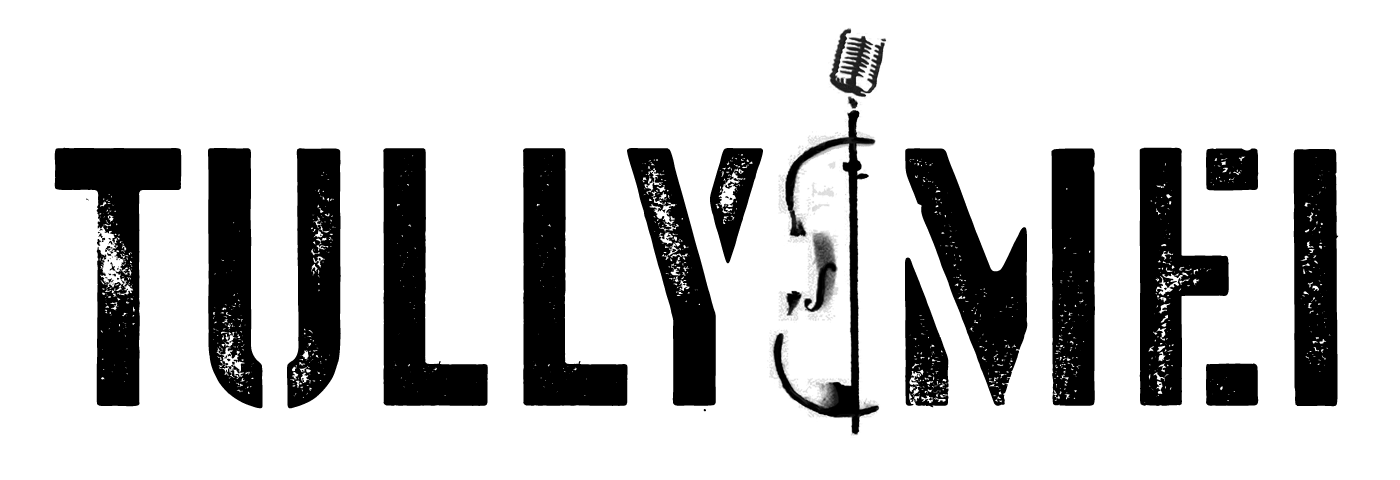
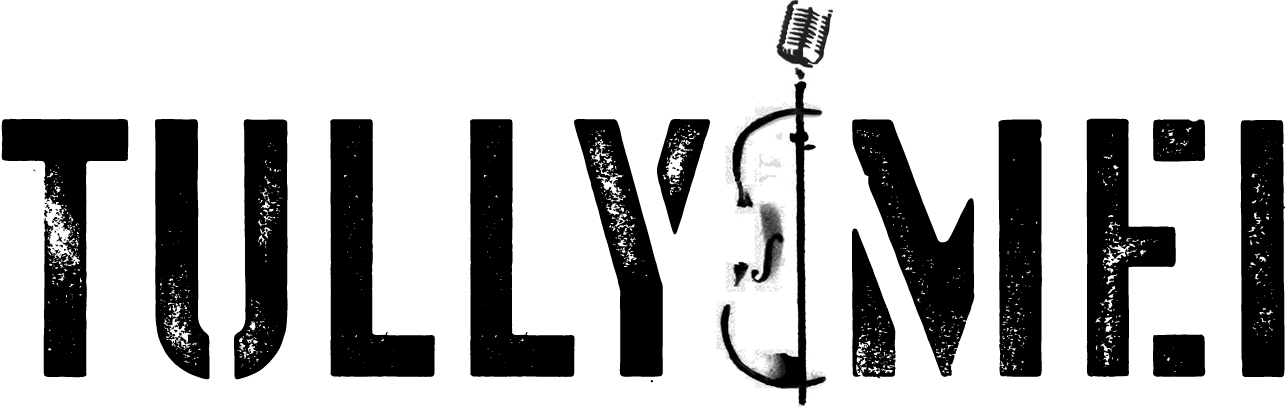
more equal

diff --git a/index.html b/index.html
@@ -57,6 +57,8 @@
 
 <img class = "logo" src="images/tullymei.png">
 
+<div class = "buffer">
+
 <style>.embed-container { position: relative; padding-bottom: 56.25%; height: 0; overflow: hidden; max-width: 100%; margin-bottom: 40px; } .embed-container iframe, .embed-container object, .embed-container embed { position: absolute; top: 0; left: 0; width: 100%; height: 100%; }</style><div class='embed-container'><iframe src='https://www.youtube.com/embed/dTHf8pNNKs8' frameborder='0' allowfullscreen></iframe></div>
 
 <!-- <h2>TULLY & MEI</h2> -->
@@ -70,6 +72,8 @@
 <ul class="juicer-feed" data-feed-id="lj" style="
     padding: 0% 15% 0% 15%;
 "><h1 class="referral"><a href="http://www.juicer.io">Powered by Juicer</a></h1></ul>
+
+</div>
 
 <script src="https://ajax.googleapis.com/ajax/libs/jquery/2.1.3/jquery.min.js"></script>
 <script src="https://maxcdn.bootstrapcdn.com/bootstrap/3.3.5/js/bootstrap.min.js"></script>

diff --git a/test.css b/test.css
@@ -139,7 +139,7 @@
 }
 
 .logo {
-    width: 200px;
+    width: 90%;
     /*float: left;*/
     /*margin-left: 1%;*/
     /*margin-top: 1%;*/
@@ -160,7 +160,7 @@
 
 .juicer-feed.loaded {
     padding: 0% 4% 0% 0%;
-    max-width: 78%;
+    max-width: 100%;
     top: 0%;
 }
 
@@ -231,6 +231,10 @@ html, body {
 hr {
 	margin-top: 10px;
 	margin-bottom: 10px;
+}
+
+.buffer {
+    margin: 5% 5%;
 }
 
 .header {
@@ -449,10 +453,16 @@ a:hover {
 
 .logo {
     width: 77%;
-    margin-left: -5%;
+    padding: 20px;
+    margin-left: -1%;
+    
     /*float: left;*/
     /*margin-left: 1%;*/
     /*margin-top: 1%;*/
+}
+
+.buffer {
+    margin: 0% 12%;
 }
 
 .navbar-nav {
